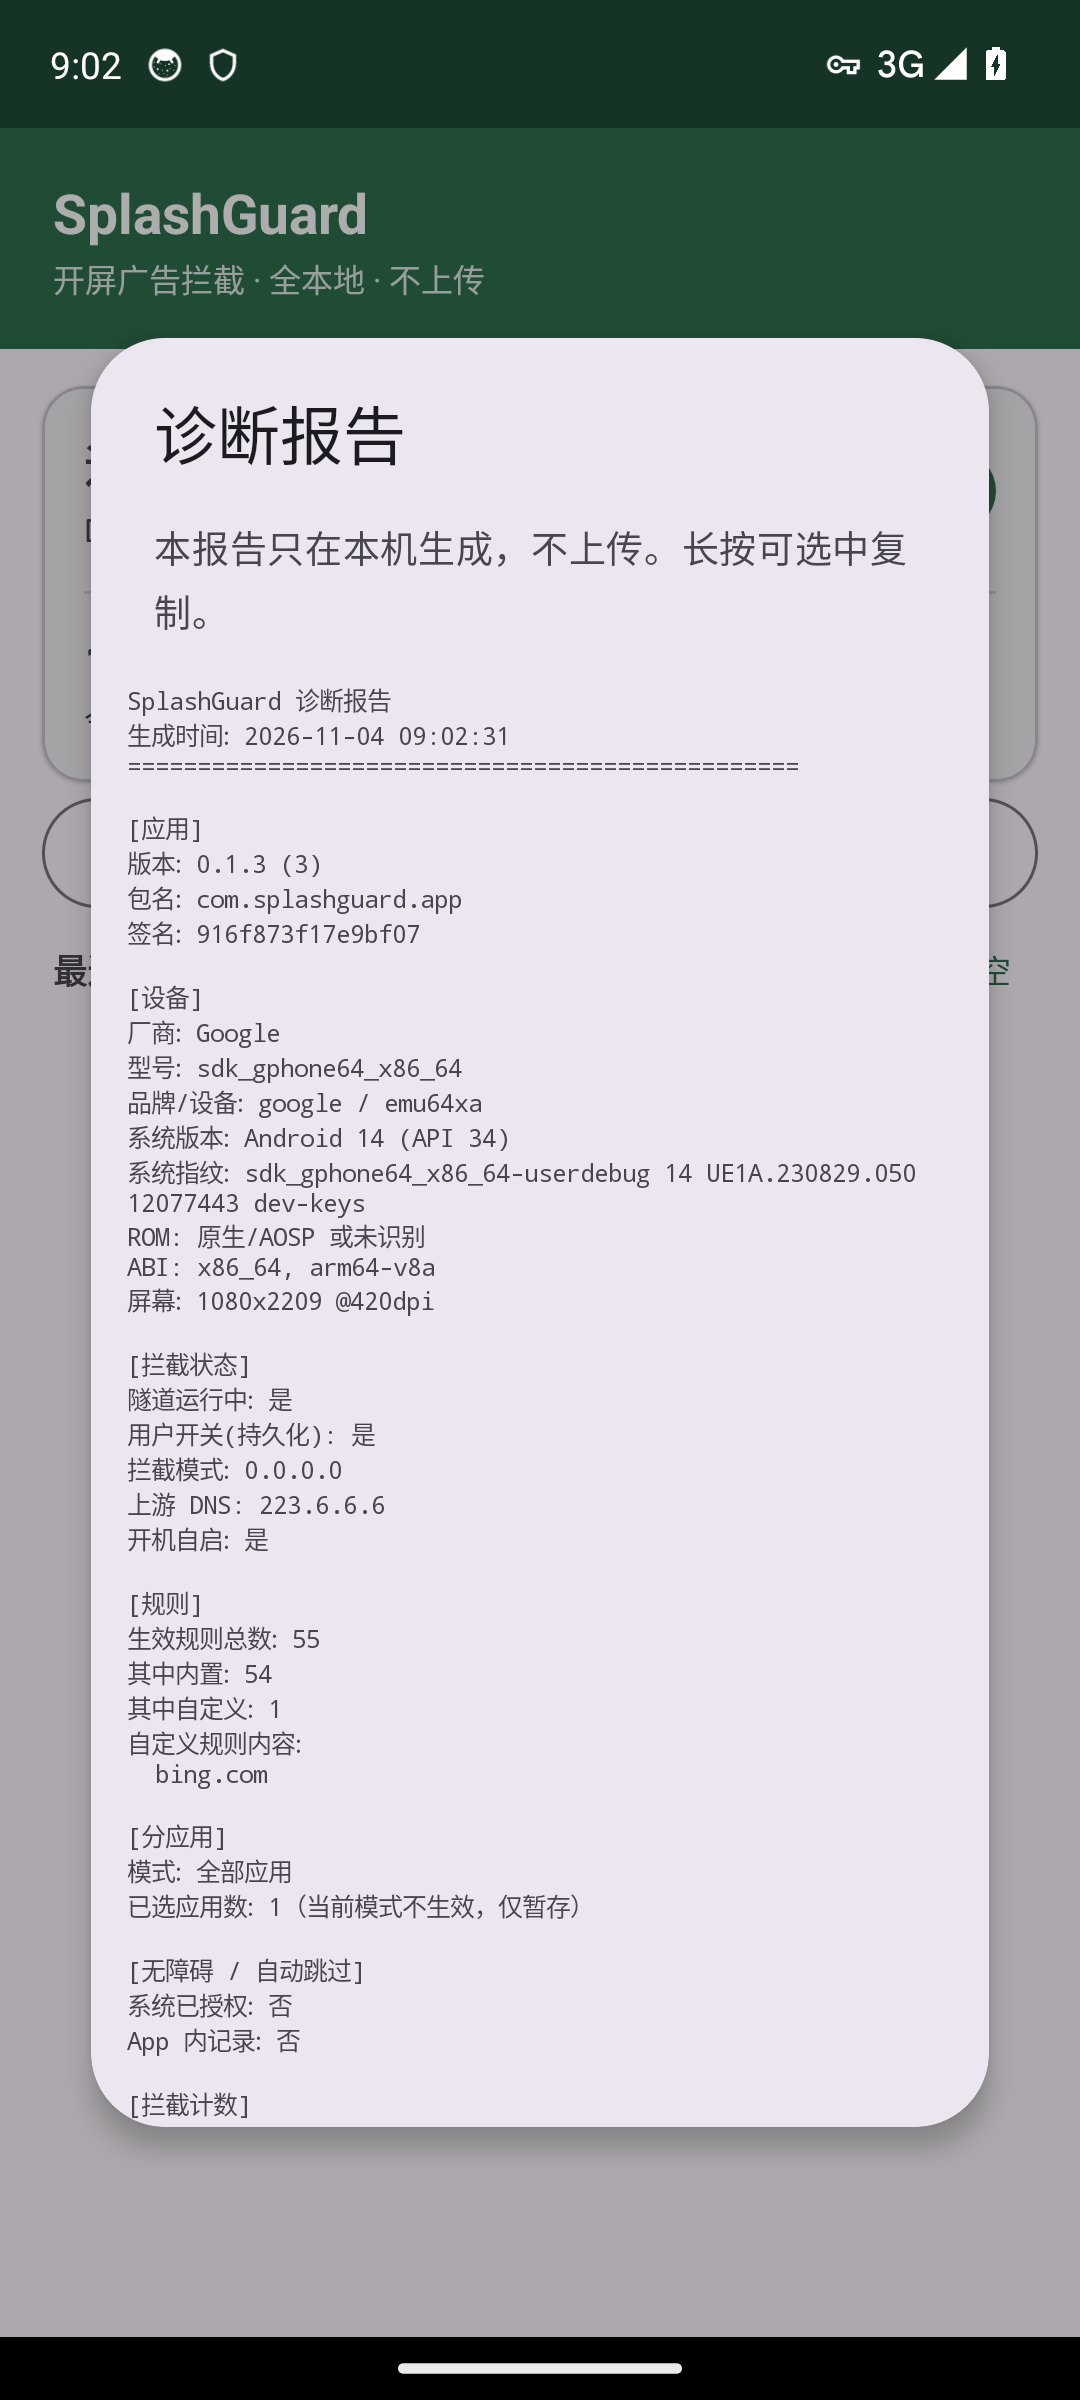
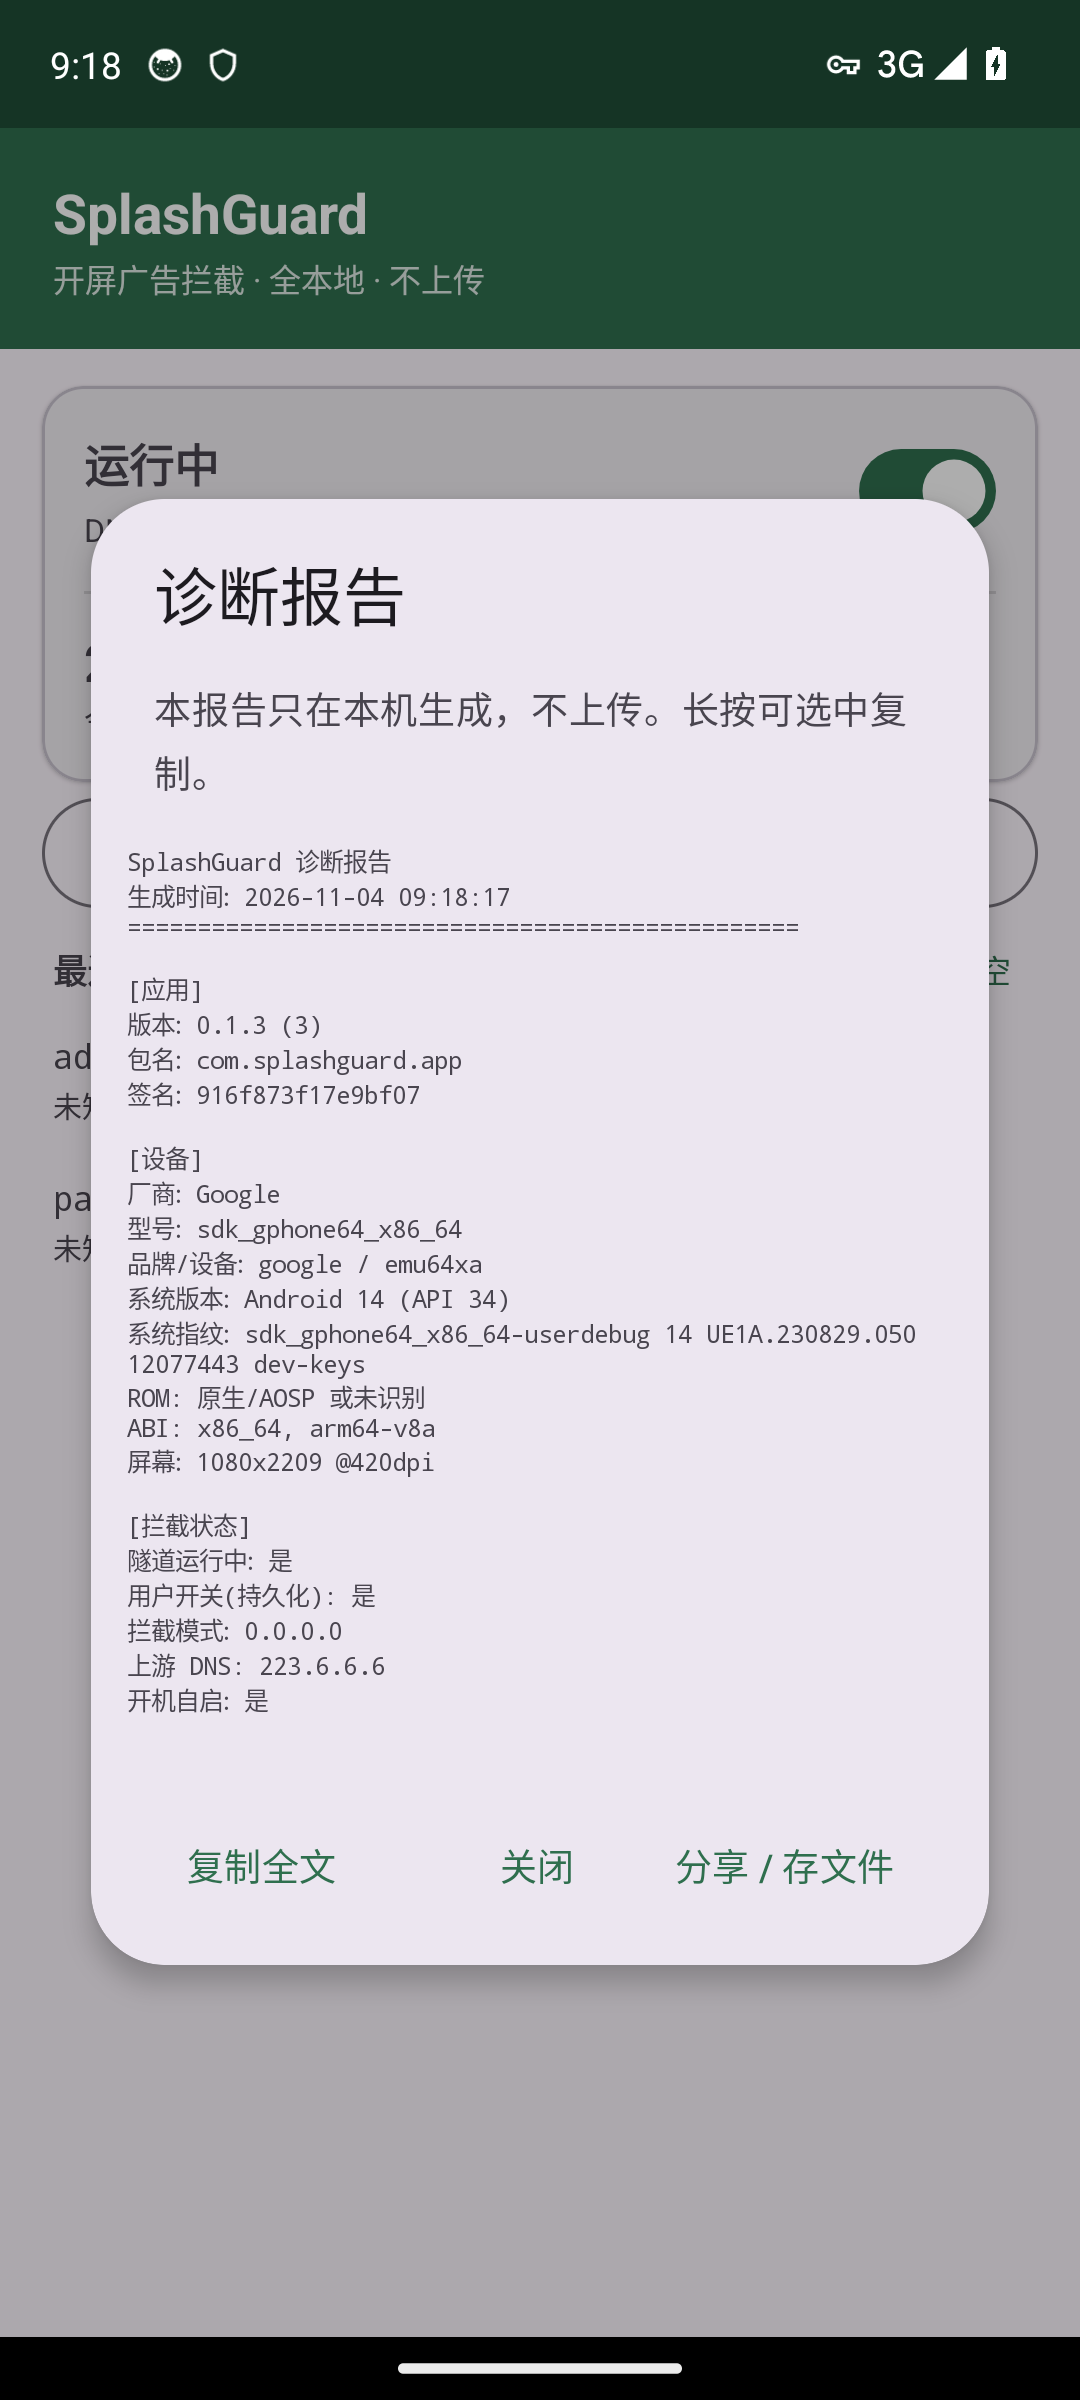
feat: 小米/HyperOS 无障碍入口引导 + 0.1.4 交付包
真机用户（小米 13 Pro）在系统无障碍里找不到本应用的跳过服务。
HyperOS 把无障碍藏在「更多设置」，且常把侧载应用折叠进「更多已下载的服务」。

- 点「自动跳过」先弹机型引导，含小米搜索法、折叠项、华为应用启动管理
- 引导弹窗加「复制 ADB 命令」，一键复制两条授权命令
- 手册补小米 13 Pro 专属路径、USB 调试(安全设置) 注意、ADB 兜底与自检方法
- 交付物同时提供 apk 与 zip，避免微信把 .apk 改名成 .apk.1
- versionCode 4 / versionName 0.1.4

验证：单测 27 项全绿；引导弹窗截图；ADB 命令执行后 App 显示「自动跳过 · 开」，
dumpsys accessibility 的 Enabled services 确认含本服务。

diff --git a/app/src/main/java/com/splashguard/app/ui/MainActivity.kt b/app/src/main/java/com/splashguard/app/ui/MainActivity.kt
@@ -190,13 +190,24 @@ class MainActivity : AppCompatActivity() {
         }
 
     private fun openAccessibilitySettings() {
-        val hint = if (isA11yEnabled) R.string.a11y_on else R.string.a11y_off
-        toast(getString(hint))
-        runCatching {
-            startActivity(Intent(Settings.ACTION_ACCESSIBILITY_SETTINGS))
-        }.onFailure {
-            toast("无法打开无障碍设置，请手动进入 系统设置 → 无障碍")
+        if (isA11yEnabled) {
+            toast(getString(R.string.a11y_on))
+            runCatching { startActivity(Intent(Settings.ACTION_ACCESSIBILITY_SETTINGS)) }
+            return
         }
+        // 各厂商把入口藏得深浅不一（小米尤其），先给一份带机型提示的引导
+        MaterialAlertDialogBuilder(this)
+            .setTitle(R.string.a11y_guide_title)
+            .setMessage(R.string.a11y_guide_body)
+            .setPositiveButton(R.string.a11y_go_settings) { _, _ ->
+                runCatching { startActivity(Intent(Settings.ACTION_ACCESSIBILITY_SETTINGS)) }
+                    .onFailure { toast(getString(R.string.toast_open_settings_failed)) }
+            }
+            .setNeutralButton(R.string.a11y_copy_adb) { _, _ ->
+                copyToClipboard(ADB_A11Y_COMMAND, getString(R.string.toast_adb_copied))
+            }
+            .setNegativeButton(R.string.action_close, null)
+            .show()
     }
 
     // ---------------- 诊断报告（真机验收用） ----------------
@@ -238,9 +249,13 @@ class MainActivity : AppCompatActivity() {
     }
 
     private fun copyReport(text: String) {
+        copyToClipboard(text, getString(R.string.toast_copied))
+    }
+
+    private fun copyToClipboard(text: String, hint: String) {
         val cm = getSystemService(Context.CLIPBOARD_SERVICE) as? ClipboardManager ?: return
-        cm.setPrimaryClip(ClipData.newPlainText("SplashGuard report", text))
-        toast(getString(R.string.toast_copied))
+        cm.setPrimaryClip(ClipData.newPlainText("SplashGuard", text))
+        toast(hint)
     }
 
     private fun shareReport(text: String) {
@@ -262,5 +277,13 @@ class MainActivity : AppCompatActivity() {
 
     private fun toast(msg: String) {
         Toast.makeText(this, msg, Toast.LENGTH_SHORT).show()
+    }
+
+    private companion object {
+        /** 系统设置里实在找不到入口时，让用户复制去电脑上用 adb 授权 */
+        const val ADB_A11Y_COMMAND =
+            "adb shell settings put secure enabled_accessibility_services " +
+                "com.splashguard.app/com.splashguard.app.a11y.SkipAccessibilityService\n" +
+                "adb shell settings put secure accessibility_enabled 1"
     }
 }

diff --git a/docs/real-device-guide.md b/docs/real-device-guide.md
@@ -1,6 +1,6 @@
 # 真机验收操作手册
 
-> 目标：把 `dist/SplashGuard-0.1.3.apk` 装到你的安卓手机上，跑完 5 步冒烟验证，
+> 目标：把 `dist/SplashGuard-0.1.4.apk` 装到你的安卓手机上，跑完 5 步冒烟验证，
 > 把「诊断报告」发回来。全程约 10 分钟，不需要电脑（有电脑更快）。
 >
 > 适用：Android 8.0（API 26）及以上。华为鸿蒙、小米、OPPO、vivo、三星、原生均可。
@@ -11,9 +11,9 @@
 
 | 项 | 值 |
 |---|---|
-| 文件 | 桌面 `SplashGuard-0.1.3.apk`（推荐）；或 `dist/SplashGuard-0.1.3.apk`（约 4.6 MB） |
+| 文件 | 桌面 `SplashGuard-0.1.4.apk`（推荐）；或 `dist/SplashGuard-0.1.4.apk`（约 4.6 MB） |
 | 包名 | `com.splashguard.app` |
-| 版本 | 0.1.3 (versionCode 3) |
+| 版本 | 0.1.4 (versionCode 3) |
 | 签名 | 自签名（非商店分发） |
 | 最低系统 | Android 8.0 |
 | 联网行为 | 只有 DNS 转发，无其他出站请求 |
@@ -33,7 +33,7 @@ adb devices
 # 应看到一行 xxxxx  device
 
 # 2. 安装
-adb install -r dist/SplashGuard-0.1.3.apk
+adb install -r dist/SplashGuard-0.1.4.apk
 # 输出 Success 即成功
 ```
 
@@ -41,21 +41,21 @@ adb install -r dist/SplashGuard-0.1.3.apk
 
 **先找到文件** —— 下面三处内容完全相同，任选一处：
 
-- 电脑桌面：`SplashGuard-0.1.3.apk`
-- 电脑桌面：`SplashGuard-0.1.3.zip`（微信专用，推荐，原因见下）
-- 项目目录：`D:\vs-document\SplashGuard\dist\SplashGuard-0.1.3.apk`
+- 电脑桌面：`SplashGuard-0.1.4.apk`
+- 电脑桌面：`SplashGuard-0.1.4.zip`（微信专用，推荐，原因见下）
+- 项目目录：`D:\vs-document\SplashGuard\dist\SplashGuard-0.1.4.apk`
 
 **微信的坑：微信会把 `.apk` 自动改名成 `.apk.1`**（防止自动安装），所以很多人发过去之后
 在手机端「找不到文件」或点开提示「无法打开」。zip 压缩包不会被改名。
 
 推荐走 zip：
 
-1. 电脑微信 →「文件传输助手」→ 发送 `SplashGuard-0.1.3.zip`
+1. 电脑微信 →「文件传输助手」→ 发送 `SplashGuard-0.1.4.zip`
 2. 手机微信里点开该 zip →「用其他应用打开」→ 选系统的「文件管理」
-3. 解压出 `SplashGuard-0.1.3.apk` → 点击安装
+3. 解压出 `SplashGuard-0.1.4.apk` → 点击安装
 4. 若提示「禁止安装未知应用」，点提示去开启本来源的安装权限，回来重试
 
-如果坚持直接传 apk：手机文件管理进 `Download/WeiXin/` 找到 `SplashGuard-0.1.3.apk.1`，
+如果坚持直接传 apk：手机文件管理进 `Download/WeiXin/` 找到 `SplashGuard-0.1.4.apk.1`，
 **重命名把结尾的 `.1` 删掉**，再点开就能装。
 
 > QQ 传文件通常不加后缀，比微信省事。也可以用手机 QQ / 钉钉的「传文件到手机」。
@@ -80,11 +80,42 @@ adb install -r dist/SplashGuard-0.1.3.apk
 
 ### ② 开启无障碍（自动跳过功能，可选但建议）
 
-路径：`系统设置 → 无障碍 → 已下载的服务 / 已安装的服务 → SplashGuard 自动跳过 → 开启`
+**最快的办法：打开 SplashGuard，点首页第三个按钮「自动跳过」** —— App 会直接跳到系统的无障碍
+设置页，还会先弹一份带机型提示的引导，不用自己一层层翻菜单。
+
+如果手动找，路径是：`系统设置 → 无障碍 → 已下载的服务 → SplashGuard 自动跳过 → 开启`
 
 - 会弹「此服务可以查看屏幕内容」的警告，这是无障碍服务的标准提示
 - 我们只做一件事：识别「跳过」两个字并点击，不读聊天记录、不读密码框
 - 不开启也能用，只是少了「自动点跳过」这一层
+- 开启成功后，首页那个按钮文字会变成「**自动跳过 · 开**」，用这个判断有没有生效
+
+#### 小米 / Redmi / HyperOS 专用（小米 13 Pro 等）
+
+小米把无障碍藏在**「更多设置」**里，而且会把侧载安装的应用折叠起来，按这个顺序试：
+
+1. 设置**顶部搜索框**直接搜「无障碍」→ 进「无障碍」→ 往下翻到「已下载的服务」
+2. 或：设置 → **更多设置** → 无障碍 → 已下载的服务
+3. **找不到就往下翻「更多已下载的服务」** —— HyperOS 常把非应用商店装的应用塞进这个折叠项，
+   这正是「列表里没有 SplashGuard」的最常见原因
+4. 确认 App 真的装上了：设置 → 应用设置 → 应用管理 → 搜 `SplashGuard`。没装上的话列表里当然没有
+
+#### 实在找不到：用电脑一条命令开启
+
+手机开 USB 调试并连电脑，在电脑上执行（App 里点「自动跳过」→「复制 ADB 命令」会自动复制这两行）：
+
+```bash
+adb shell settings put secure enabled_accessibility_services com.splashguard.app/com.splashguard.app.a11y.SkipAccessibilityService
+adb shell settings put secure accessibility_enabled 1
+```
+
+执行完回到 App 看按钮是否变成「自动跳过 · 开」。
+
+> **小米特别注意**：部分 HyperOS 版本会拦截 adb 修改 `secure` 设置，需要在
+> 开发者选项里额外打开「**USB 调试（安全设置）**」才生效（该开关要求登录小米账号）。
+> 如果执行后仍不生效，就回到上面的「更多已下载的服务」手动找。
+
+华为 / 荣耀还需要到「应用启动管理」把本应用设为手动管理、三项全允许，否则后台会被杀。
 
 ### ③ 关掉电池优化（关键，否则后台被杀）
 

diff --git a/CHANGELOG.md b/CHANGELOG.md
@@ -1,5 +1,25 @@
 # 变更记录
 
+## v0.1.4 — 小米 / HyperOS 无障碍入口引导（2026-11-04）
+
+真机用户反馈：小米 13 Pro 在系统无障碍里找不到「SplashGuard 自动跳过」。
+原因是 HyperOS 把无障碍藏在「更多设置」，且常把侧载应用折叠进「更多已下载的服务」。
+
+**新增**
+
+- 点首页「自动跳过」时先弹机型引导：小米搜索法、「更多已下载的服务」折叠项、华为应用启动管理
+- 引导弹窗新增「复制 ADB 命令」，一键复制两条无障碍授权命令
+- `docs/real-device-guide.md` 补小米 13 Pro 专属路径、小米「USB 调试（安全设置）」注意事项、
+  ADB 兜底方案，以及「按钮变『自动跳过 · 开』即为生效」的自检方法
+- 交付物同时提供 `.apk` 与 `.zip`（微信会把 apk 改名成 `.apk.1`，zip 不会），并放到桌面
+
+**验证**
+
+- 单测 27 项全绿
+- 引导弹窗四要素完整、小米提示文案无截断（截图 `docs/evidence/a11y-guide.png`）
+- 两条 ADB 命令执行后 App 显示「自动跳过 · 开」，
+  `dumpsys accessibility` 的 `Enabled services` 确认包含本服务
+
 ## v0.1.3 — 真机验收支持与防摇一摇加固（2026-11-04）
 
 **新增**
